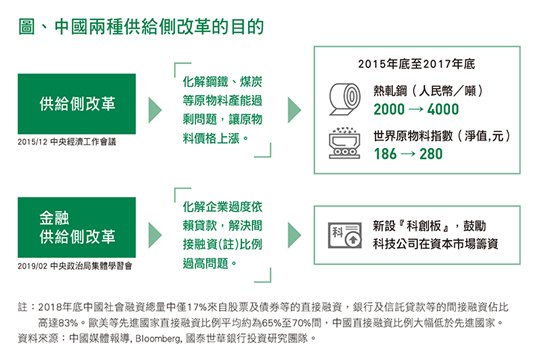
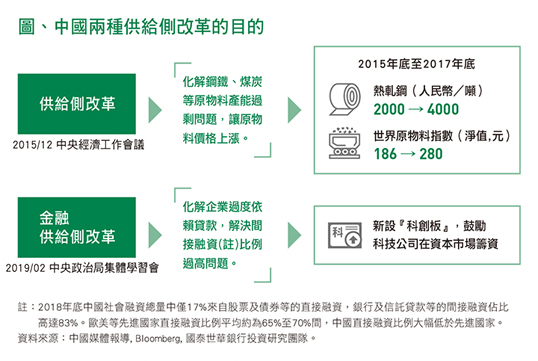
update

Changed region(s): [[0.0297, 0.3657, 0.2677, 0.4266], [0.0, 0.7008, 0.2974, 0.7618]]

diff --git a/MR201905-html/201905_1/index.html b/MR201905-html/201905_1/index.html
@@ -91,7 +91,7 @@ div.text_in:after {
          <div class="box_in">               
                 <div id="box1">
                   <div class="text_in">
-                       <p class="text_left_m10 s_18">「融資貴、融資難」，這一直是中國民間企業所面臨最大的問題。說白了，中國的資金集中在五大國有銀行，這五大國有銀行又傾向把資金貸給違約風險低、資產規模大的國營企業，反觀違約風險高、資產規模小的民間企業，自然很難取得資金。從個體經濟的角度看來，這件事情反應在民間貸款與租賃上，即便與非銀行借款利息明顯高於銀行，但市場的需求仍大；從總體經濟的角度看來，這也造就了中國民間企業槓桿率高達152%，位居世界第一的獨特現象（見表一）。</p>
+                       <p class="text_left_m10 s_18">「融資貴、融資難」，這一直是中國民間企業所面臨最大的問題。說白了，中國的資金集中在五大國有銀行，這五大國有銀行又傾向把資金貸給違約風險低、資產規模大的國營企業，反觀違約風險高、資產規模小的民間企業，自然很難取得資金。從個體經濟的角度看來，這件事情反應在民間貸款與租賃上，即便與非銀行借款利息明顯高於銀行，但市場的需求仍大；從總體經濟的角度看來，這也造就了中國民間企業槓桿率高達152%，位居世界第一的獨特現象（見表）。</p>
                        <p class="text_left_m10 s_18">藉財務槓桿的推升，發展出一套「用錢滾錢」的經濟成長模式，這可以說是中國近20年來的煉金祕法。然而，隨著經濟體逐漸成熟、國民生產毛額已高居世界第二，越來越多科技帶動的新創公司崛起，取代需大量資本支出的傳統製造業，也使得過去的籌資方法越來越難滿足新商業模式的需求，中國是該變了。因此，在2019年第一季習近平喊出「深化金融供給側結構性改革」的口號。</p>
                        <div class="img">
                             <img src="img/201905_1_pic1.jpg">
@@ -104,8 +104,8 @@ div.text_in:after {
                 <div id="box2">
                    <div class="box_title b_22 b green">金融供給側改革作何解？以「發股、發債」取代「舉債」</div>
                     <div class="text_in">
-                         <p class="text_left_m10 s_18">如果你對「供給側改革」這個詞彙有印象，那你沒搞錯，2015年，中國就曾經針對鋼鐵與煤炭產能過剩的問題發動改革，好阻止原物料價格崩跌的態勢。短短兩年內，不僅相關原物料價格大幅攀升，連帶使世界原物料指數漲幅逾五成（見圖一）。</p>
-                         <p class="text_left_m10 s_18">這次，中國政府則提出以提高直接金融的比重來解決問題。什麼是「直接金融」？簡單地說，就是企業直接在市場上發行股票與企業債券，以滿足資金需求，而非只是向銀行舉債。中國在此項目的比例不到二成，遠低於歐美平均的六至七成；換言之，只要中國企業能拉高直接發股與發債的比重，就能大幅減緩對銀行舉債的依賴性，降低銀行濫發貸款的可能，經營穩健的公司, 其籌資成本由市場公評。</p>
+                         <p class="text_left_m10 s_18">如果你對「供給側改革」這個詞彙有印象，那你沒搞錯，2015年，中國就曾經針對鋼鐵與煤炭產能過剩的問題發動改革，好阻止原物料價格崩跌的態勢。短短兩年內，不僅相關原物料價格大幅攀升，連帶使世界原物料指數漲幅逾五成（見圖）。</p>
+                         <p class="text_left_m10 s_18">這次，中國政府則提出以提高直接金融的比重來解決問題。什麼是「直接金融」？簡單地說，就是企業直接在市場上發行股票與企業債券，以滿足資金需求，而非只是向銀行舉債。中國在此項目的比例不到二成，遠低於歐美平均的六至七成；換言之，只要中國企業能拉高直接發股與發債的比重，就能大幅減緩對銀行舉債的依賴性，降低銀行濫發貸款的可能，經營穩健的公司，其籌資成本由市場公評。</p>
                          <p class="text_left_m10 s_18">然而，中國企業之所以高度依賴對銀行舉債，跟資本市場不夠開放有關，政府必須讓發行股票或者債券變得更容易才行。今年二月，習近平罕見地說出「股市將是國家核心競爭力組成的一部分」，正面地看待股市發展對經濟的重要性；到了四月，政府實施減稅降費，讓企業可以降低經營成本並美化財報；下半年更是要籌設「科創版」，讓科技公司可以較方便在資本市場籌資。這一連串宣示與措施，無不環繞在金融問題上。</p>
 <div class="img">
                             <img src="img/201905_1_pic2.jpg">
@@ -117,7 +117,7 @@ div.text_in:after {
                    <div class="box_title b_22 b green">成果非一蹴可幾，投資方式以長期穩健為佳</div>
                     <div class="text_in">
                          <p class="text_left_m10 s_18">間接融資轉直接融資的成果絕非一蹴可幾，但中國經濟狀況隨中美間貿易關稅的課徵，急需一些活水刺激。所以人行短線暫時走回放水的老路，反應在數據上，即社會融資總額年增率，也就是民間獲得貸款的成長率，年初有大幅攀升的態勢。</p>
-                         <p class="text_left_m10 s_18">在中國政策大轉彎的情況下，預估將有許多與中國經濟連動高，且不被看好的資產，例如陸股、原物料價格以及商品貨幣等，都可能出現反彈行情。然而，投資人不要被激情沖昏頭，金融供給側改革是為解決資金供給問題而生，非重演 “大水漫灌”金山寺的劇情，所以融資數據未來出現平緩成長可能性遠高於大幅增加，投資相關產品宜以長期穩健的方式為佳。</p>
+                         <p class="text_left_m10 s_18">在中國政策大轉彎的情況下，預估將有許多與中國經濟連動高，且不被看好的資產，例如陸股、原物料價格以及商品貨幣等，都可能出現反彈行情。然而，投資人不要被激情沖昏頭，金融供給側改革是為解決資金供給問題而生，非重演「大水漫灌」金山寺的劇情，所以融資數據未來出現平緩成長可能性遠高於大幅增加，投資相關產品宜以長期穩健的方式為佳。</p>
                   </div>
                 </div>
                 <div class="other_box">

diff --git a/MR201905-html/201905_2/index.html b/MR201905-html/201905_2/index.html
@@ -86,7 +86,7 @@ div.text_in:after {
          </div>
          <div class="in">
             <div id="box_text">
-                <p class="text_left s_20" >2019年第一季全球股市在“漲”聲中度過，對多數投資人而言，最扼腕的莫過於不能掌握首季的反彈行情，因為標普500指數上漲了13%，新興市場亦有9.6%漲幅，但不少人逢高減碼。即便過去操作績效最好的避險基金-文藝復興科技，首季報酬也僅有4%，遠低於大盤表現，這不禁讓人更想了解，如何才能投資獲利，甚至超越大盤。</p>            
+                <p class="text_left s_20" >2019年第一季全球股市在「漲」聲中度過，對多數投資人而言，最扼腕的莫過於不能掌握首季的反彈行情，因為標普500指數上漲了13%，新興市場亦有9.6%漲幅，但不少人逢高減碼。即便過去操作績效最好的避險基金-文藝復興科技，首季報酬也僅有4%，遠低於大盤表現，這不禁讓人更想了解，如何才能投資獲利，甚至超越大盤。</p>            
             </div>           
          <div class="box_in">               
                 <div id="box1">
@@ -103,7 +103,7 @@ div.text_in:after {
                        <p class="text_left_m10 s_18">投資雖或許需要高深的基礎與理論，但其實也可以很簡單。統計道瓊指數過去百年的歷史資料 (圖1)，若能將每次投資持有期間拉長，長期的年化報酬是明顯高於短期進出的投資績效。例如，若每次投資持有期間都僅1個月，平均年化報酬率是7.4%，但持有期間拉高至2年，長期年化報酬將突破8%。若進一步考量交易頻率過高所衍伸的交易成本，兩者間的報酬差異將更為明顯。</p>
                                             <div class="img">
                             <img src="img/201905_2_pic1.jpg">
-                            <p>註:定期定額年化報酬指每隔一段時間, 投資於固定資產上, 並依持有期間不同, 計算各種策略的年化報酬。資料來源: Bloomberg, 期間為道瓊指數於1919年1月至2019年4的月度資料。
+                            <p>註:定期定額年化報酬指每隔一段時間, 投資於固定資產上, 並依持有期間不同, 計算各種策略的年化報酬。資料來源: Bloomberg, 期間為道瓊指數於1919年1月至2019年4月的月度資料。
 </p>
                     </div>
                   </div>

diff --git a/MR201905-html/201905_3/index.html b/MR201905-html/201905_3/index.html
@@ -8,7 +8,7 @@
 <!-- viewport -->
 <meta name="viewport" id="viewport" content="width=device-width, initial-scale=1, maximum-scale=1">
 <!-- SEO -->
-<meta name="keywords" content="國泰世華、財富管理、退休、信託、悠活退休信託、退休金、下半場"/>
+<meta name="keywords" content="股利贈與信託、媽祖、郭台銘、總統、郭董、現金股利、蘋概三雄、除權息、股利所得、綜所稅"/>
 <meta name="description" content="「媽祖有旨，要我出來為台灣做事」，鴻海郭台銘董事長在記者會上，宣示力拼「總裁變總統」，但身為台灣首富的郭董，還沒正式成為候選人，名下財產可能曝光的話題就引發熱議。今年鴻海預估配發3.5至4元的現金股利，殖利率上看4.5%，居「蘋概三雄」之冠，依郭董目前持股，今年預計有47億的現金股利入袋。" />          
 
 
@@ -102,7 +102,7 @@ div.text_in:after {
                     </div>
                     <br>
                       <p class="text_left_m10 s_18">由上表可知，王先生透過辦理「股利贈與信託」，約定未來三年的股利透過信託專戶贈與給子女，僅需在信託成立時繳納137萬的贈與稅，贈與免稅額220萬也只使用首年額度，保有第二、三年的贈與免稅額可使用；在子女三年同樣累積領取4,800萬的股利下，透過信託規劃，贈與稅節省達277萬元。</p>
-                         <p class="text_left_m10 s_18">以目前低利率時期，高配息的股東們善用「股利贈與信託」，不僅能在享有稅負優惠下，將股利傳承給下一代，還可保有股票的掌控權，魚與熊掌都可兼得。國泰世華銀行擁有豐富的信託規劃經驗，您可與您的理財專員聯絡，讓信託專業團隊為您量身打造，符合您需求的信託規劃。</p>
+                         <p class="text_left_m10 s_18">以目前低利率時期，高配息的股東們善用「股利贈與信託」，不僅能在享有稅負優惠下，將股利傳承給下一代，還可保有股票的掌控權，魚與熊掌都可兼得。國泰世華銀行擁有豐富的信託規劃經驗，您可與您的理財顧問聯絡，讓信託專業團隊為您量身打造符合需求的信託規劃。</p>
 
                   </div>
                 </div>
